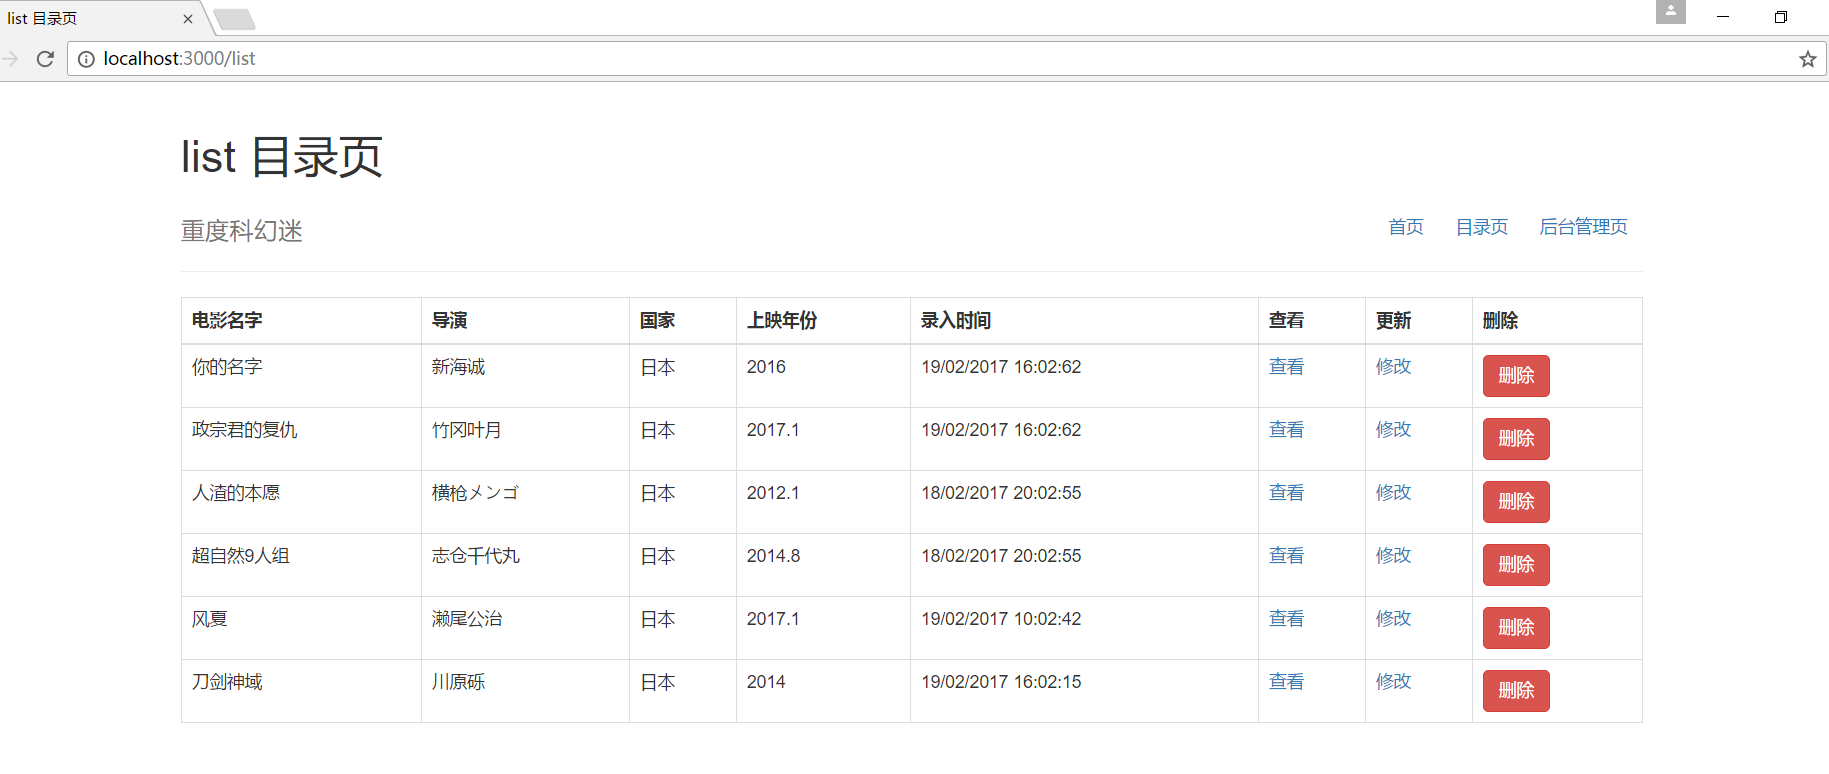
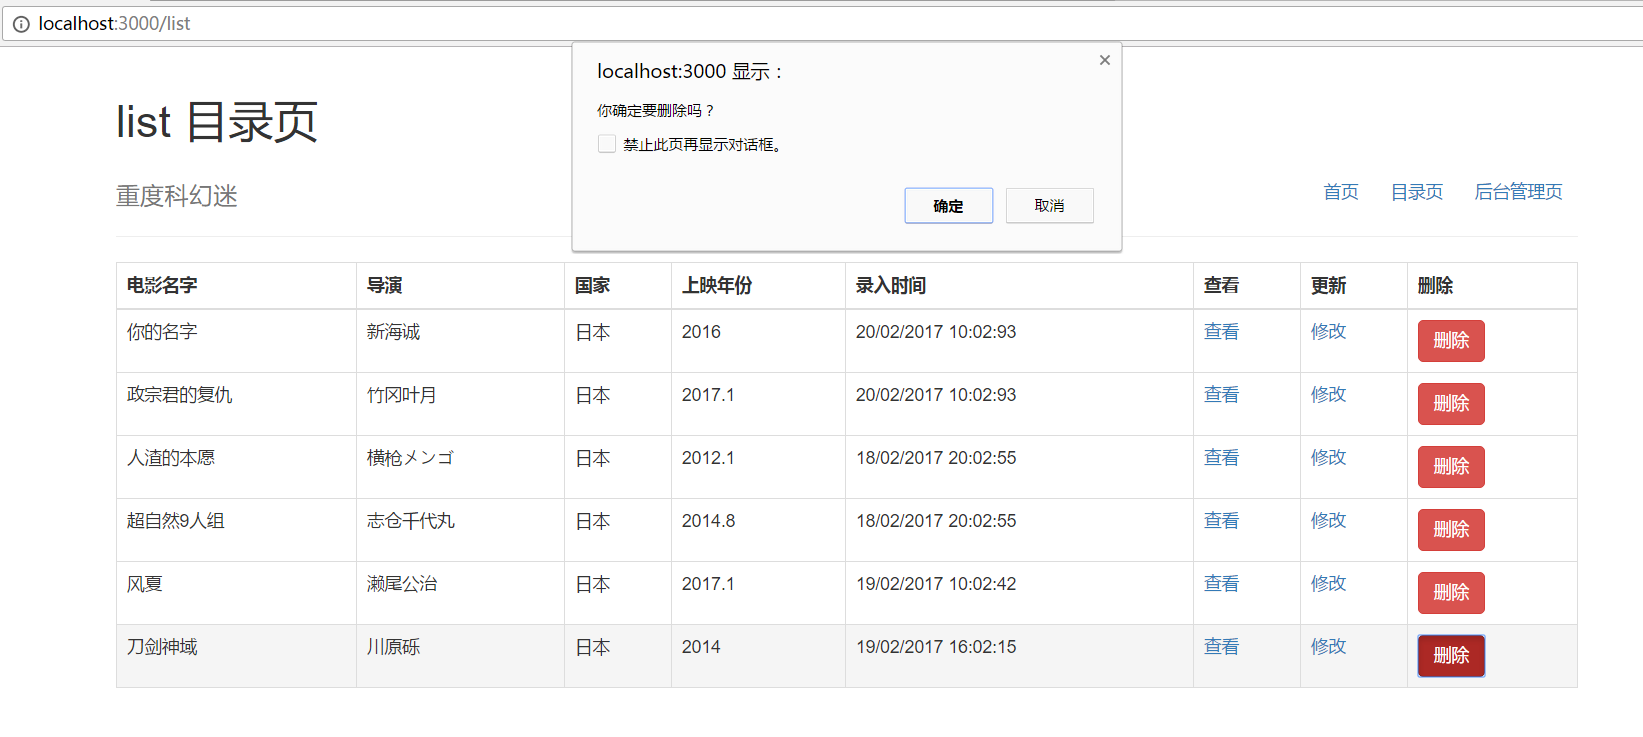
暂时完成，接着进阶

diff --git a/public/js/admin.js b/public/js/admin.js
@@ -1,21 +1,23 @@
 $(function () {
     $('.del').click(function (e) {
-        alert('你确定要删除吗？');
-        let target = $(e.target);
-        let id = target.data('id');
-        let tr = $('.item-id-' + id);
+        let returnVal = confirm('你确定要删除吗？');
+        if(returnVal) {
+            let target = $(e.target);
+            let id = target.data('id');
+            let tr = $('.item-id-' + id);
 
-        $.ajax({
-            type: 'DELETE',
-            url: '/admin/list?id=' + id
-        })
-        .done((results) => {
-            if(results.success === 1) {
-                if(tr) {
-                    tr.remove();
-                }
-            }
-        });
+            $.ajax({
+                type: 'DELETE',
+                url: '/admin/list?id=' + id
+            })
+                .done((results) => {
+                    if(results.success === 1) {
+                        if(tr) {
+                            tr.remove();
+                        }
+                    }
+                });
+        }
     });
 });
 
